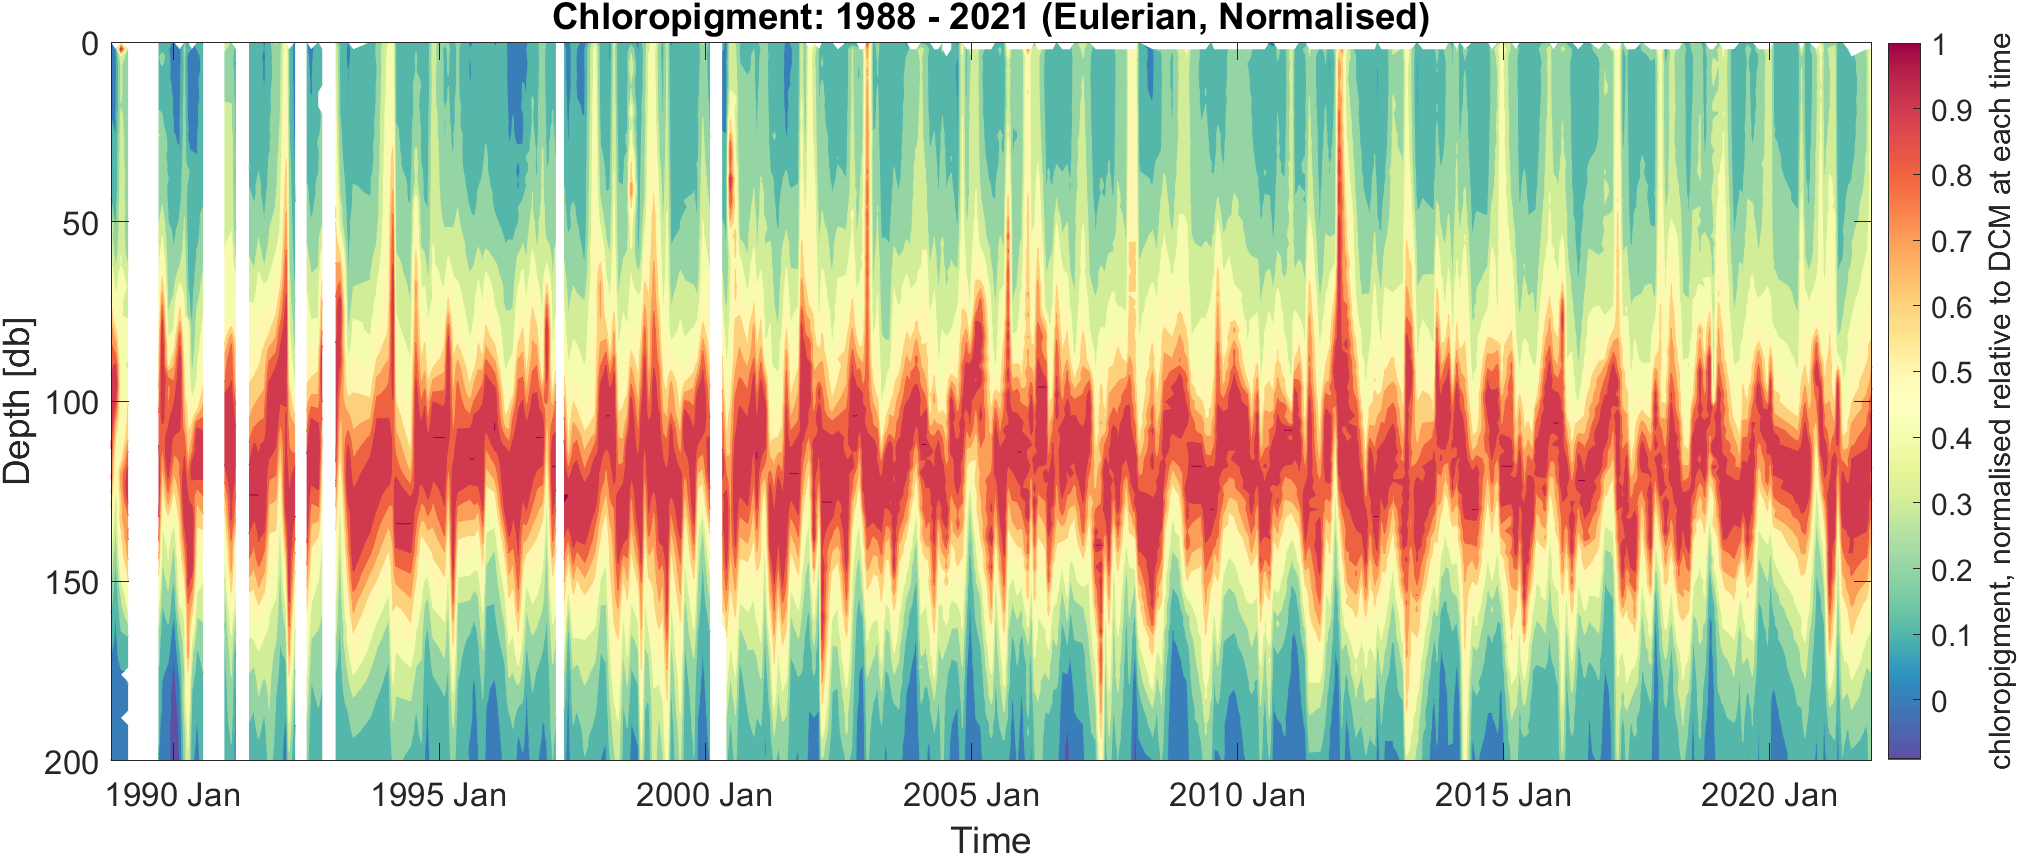
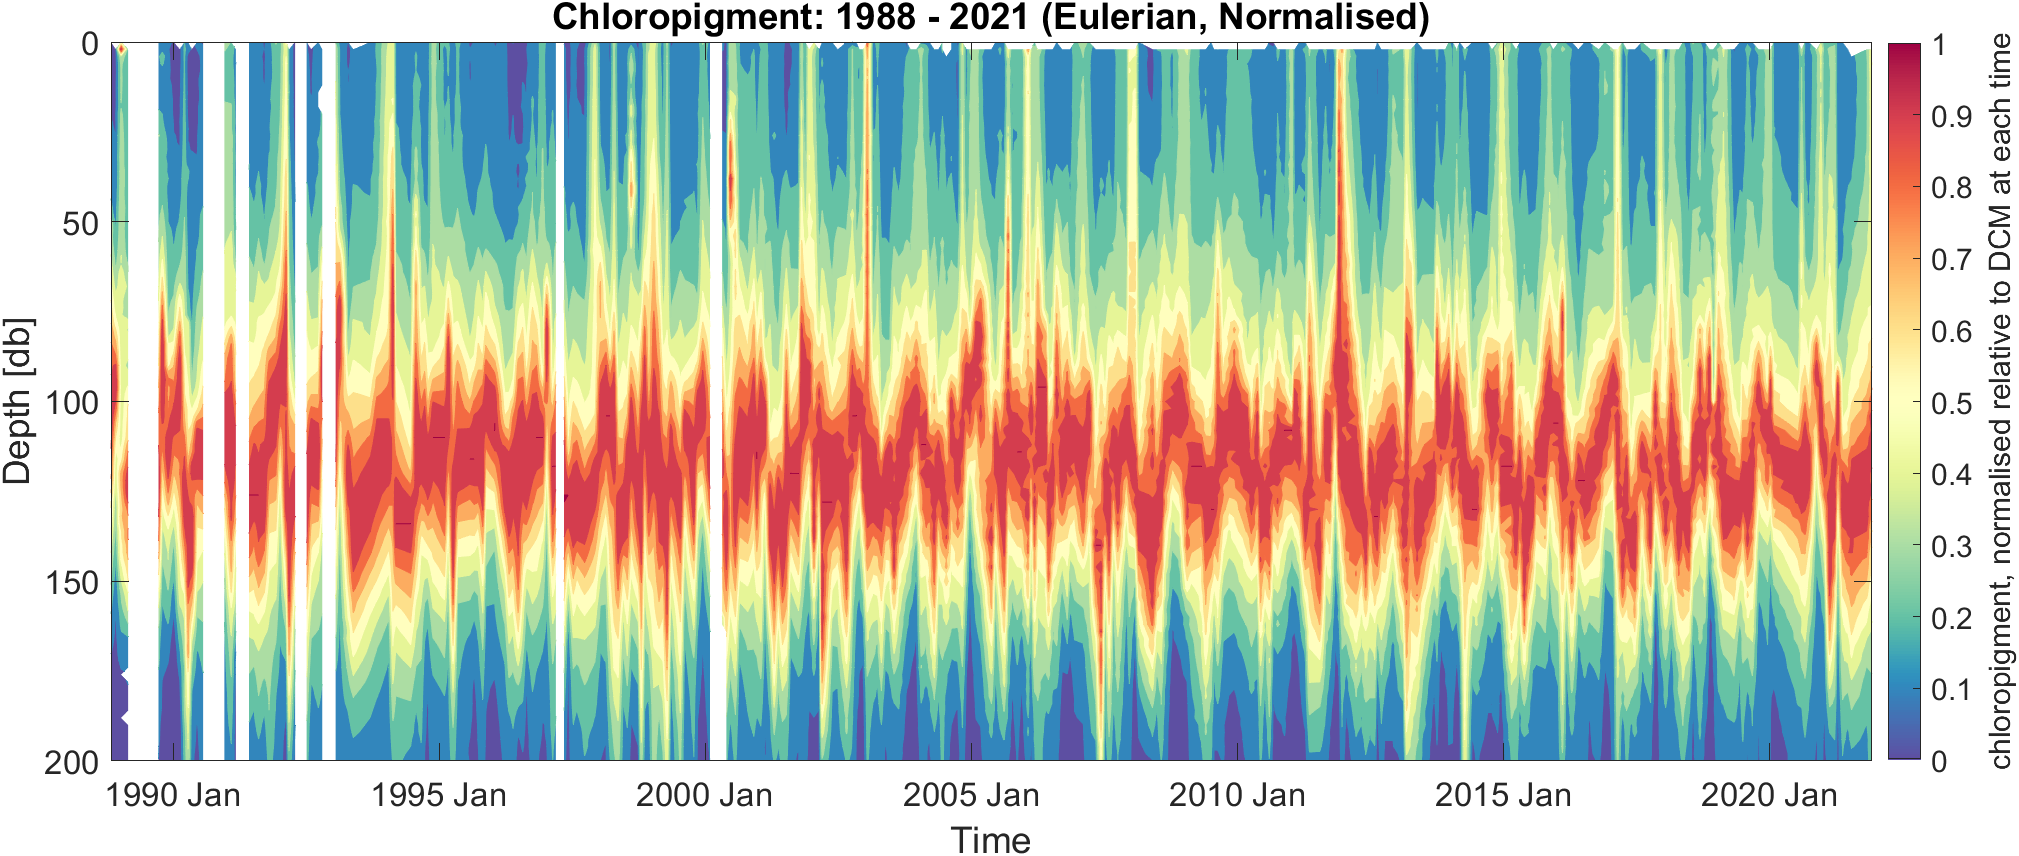
remove negative values from chl

diff --git a/examine_HOTS_chloropigment.m b/examine_HOTS_chloropigment.m
@@ -17,8 +17,9 @@ day = data(:,2);
 pressure = data(:,3);
 chloro = data(:,4);
 
+% Set -9 = NaN; remove negative values
 chloro(chloro==-9) = NaN;
-
+chloro(chloro<0) = 0;
 %% Examine First Days of Data
 
 ax1 = figure;
@@ -74,6 +75,10 @@ ylabel('Depth [db]');
 title('Chloropigment: 1988 - 2021 (Eulerian, Normalised)');
 
 exportgraphics(ax2a,'figures/fluorescence_norm-1988-2021_eulerianView.png');
+
+% Test normalisation
+assert(max(max(chloro2D_n)) == 1); % Throws error if not equal to one
+assert(min(min(chloro2D_n)) == 0); % Throws error if not equal to zero
 
 %% Kurtosis and Skewness across depth for (normalised) chloropigment depth- and time-series (Eulerian)
 
